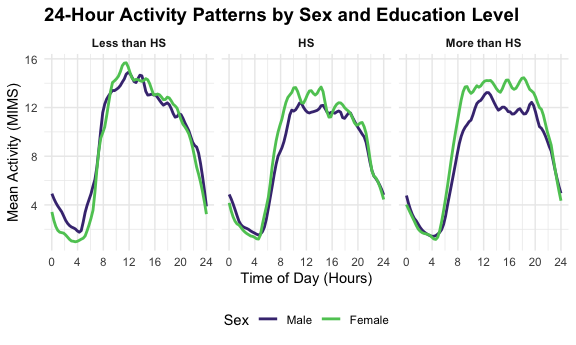
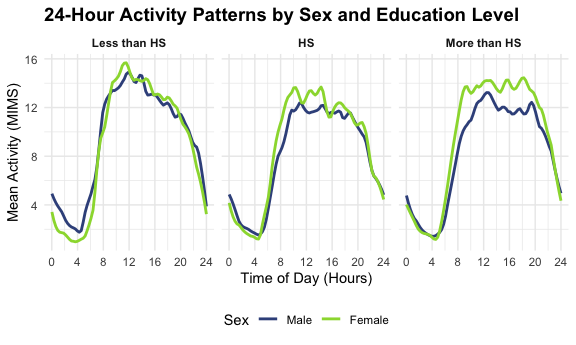
Finished Homework 3

diff --git a/p8105_hw3_lm3717.md b/p8105_hw3_lm3717.md
@@ -104,7 +104,7 @@ ny_noaa_clean |>
   facet_grid(month ~ ., scales = "free_y", switch = "y") +
   scale_color_viridis_d(
   option = "viridis",
-  begin = 0.15,
+  begin = 0.25,
   end = 0.85
 ) +
   labs(
@@ -308,8 +308,8 @@ nhanes_df |>
   ggplot(aes(x = education, y = age, fill = sex)) +
   geom_boxplot() +
   scale_fill_viridis_d(
-  begin = 0.45,
-  end = 0.88
+  begin = 0.25,
+  end = 0.85
 ) +
   labs(
     title = "Age Distribution by Sex and Education Level",
@@ -363,8 +363,8 @@ nhanes_df |>
   ) +
   facet_wrap(~ education, nrow = 1) +
   scale_color_viridis_d(
-  begin = 0.15,
-  end = 0.89
+  begin = 0.25,
+  end = 0.85
 ) +
   labs(
     title = "Total Daily Activity by Age, Sex and Education Level",
@@ -427,8 +427,8 @@ nhanes_long_df |>
   facet_wrap(~ education, nrow = 1) +
   scale_x_continuous(breaks = seq(0, 24, 4)) +
   scale_color_viridis_d(
-    begin = 0.15,
-    end = 0.75
+    begin = 0.25,
+    end = 0.85
   ) +
   labs(
     title = "24-Hour Activity Patterns by Sex and Education Level",
@@ -598,12 +598,89 @@ three stations had similarly high ride counts.
 
 #### Ride Duration by Month, Year, and Day of the Week
 
-Make a plot to investigate the effects of day of the week, month, and
-year on median ride duration. This plot can include one or more panels,
-but should facilitate comparison across all variables of interest.
-Comment on your observations from this plot.
+``` r
+citibike_df |> 
+  mutate(
+  weekdays = factor(
+    weekdays,
+    levels = c(
+      "Monday", "Tuesday", "Wednesday", "Thursday",
+      "Friday", "Saturday", "Sunday"
+    ))) |>
+  group_by(weekdays, month, year) |> 
+  summarise(
+    median_ride = median(duration),
+    .groups = "drop"
+  ) |> 
+  ggplot(aes(x = weekdays, y = median_ride, color = month)) +
+  geom_line(aes(group = month), linewidth = 0.8) +
+  geom_point(size = 2.5) + 
+  scale_color_viridis_d(
+  begin = 0.25,
+  end = 0.85
+  ) +
+  facet_grid(~ year) +
+    labs(
+  title = "Median Citi Bike Ride Duration by Weekday",
+  x = "Day of the Week",
+  y = "Median Ride Duration (min)",
+  color = "Month"
+) +
+theme_minimal() +
+theme(
+  plot.title = element_text(face = "bold", size = 14),
+  strip.text = element_text(face = "bold"),
+  axis.text.x = element_text(angle = 45, hjust = 1),
+  legend.position = "bottom"
+)
+```
 
-There were relatively few electric Citi Bikes in 2020, but many more are
-available now. For data in 2024, make a figure that shows the impact of
-month, membership status, and bike type on the distribution of ride
-duration. Comment on your results.
+<img src="p8105_hw3_lm3717_files/figure-gfm/unnamed-chunk-15-1.png" alt="" width="90%" />
+Median Citi Bike ride durations were consistently higher in July than in
+January for both 2020 and 2024. Rides were often longer on weekends,
+particularly in July 2020, when median durations peaked on Saturday and
+Sunday. Median ride durations were also much higher in 2020 than in
+2024, especially in July, which I would assume resulted from peak Covid
+when riders likely preferred biking to taking the subway.
+
+#### E-bikes in 2024
+
+``` r
+citibike_df |> 
+  filter(year == 2024) |> 
+  ggplot(aes(x = rideable_type, y = duration, fill = member_casual)) +
+  geom_boxplot() +
+  facet_grid(~ month) +
+  scale_fill_viridis_d(
+  begin = 0.25,
+  end = 0.85
+) +
+  coord_cartesian(ylim = c(0, 60)) +
+labs(
+  title = "Citi Bike Ride Duration by Bike Type and Membership Status",
+  subtitle = "January and July 2024",
+  x = "Bike Type",
+  y = "Ride Duration (Minutes)",
+  fill = "Membership Status"
+) +
+  scale_x_discrete(
+  labels = c(
+    classic_bike = "Classic Bike",
+    electric_bike = "Electric Bike"
+  )) +
+theme_minimal() +
+theme(
+  plot.title = element_text(face = "bold", size = 14),
+  strip.text = element_text(face = "bold"),
+  legend.position = "bottom"
+)
+```
+
+<img src="p8105_hw3_lm3717_files/figure-gfm/unnamed-chunk-16-1.png" alt="" width="90%" />
+In both January and July 2024, non-members generally had longer ride
+durations and greater variability than Citi Bike members. Classic bike
+rides tended to last longer than electric bike rides, especially for
+casual riders. Ride durations were also generally higher in July than in
+January, suggesting seasonal differences in bike usage. Overall,
+membership status appears to be associated with the largest differences
+in ride duration.
